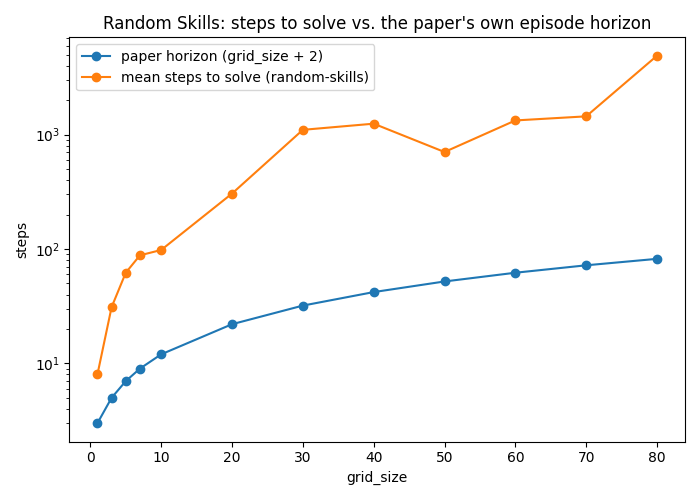
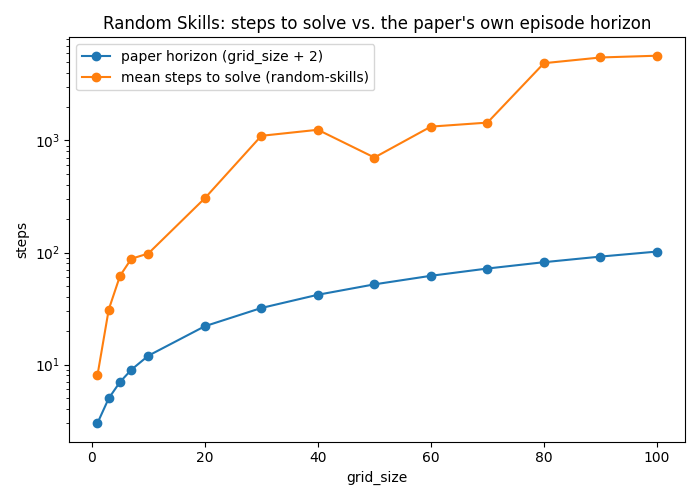
Fill in grid_size 90/100 in the Random Skills experiment log
The quadratic-cap sweep finished: 90 -> 5500 steps (2/3 solved), 100 ->
5703 steps (2/3 solved). 34/42 seeds (81%) solved within their
quadratic-scaled cap overall. Regenerated the steps-to-solve-vs-horizon
plot with the complete dataset.

Claude-Session: https://claude.ai/code/session_01BMDkogqZTdmAUeBXEeMLU5

diff --git a/docs/experiment-logs/2026-07-21-random-skills-baseline.md b/docs/experiment-logs/2026-07-21-random-skills-baseline.md
@@ -62,12 +62,16 @@ proportionally more room rather than being unfairly cut off. 3 seeds each.
 | 60        | 62            | 7200   | 1329                 | 2/3      |
 | 70        | 72            | 9800   | 1443                 | 2/3      |
 | 80        | 82            | 12800  | 4890                 | 2/3      |
-| 90        | 92            | 16200  | *pending*            | -        |
-| 100       | 102           | 20000  | *pending*            | -        |
+| 90        | 92            | 16200  | 5500                 | 2/3      |
+| 100       | 102           | 20000  | 5703                 | 2/3      |
 
-*(90/100 were still running as of this writeup — grounding cost is O(grid_size²)
-per step on top of an O(grid_size²) step cap, so the largest sizes are slow. Will
-update this table once they land.)*
+Overall, **34/42 seeds (81%) solved within their quadratic-scaled cap** across all
+14 grid sizes — the rest are genuine long-tail outliers (see the compounding
+argument below), not a sign the cap itself is systematically too small. Note the
+apparent "flattening" of the orange line above `grid_size=60` in the plot below is
+itself partly a cap artifact (the same survivorship-bias effect discussed for
+`grid_size=50`, just less severe) — it is not evidence the true scaling is
+sub-quadratic.
 
 ![steps to solve vs paper horizon](./2026-07-21-random-skills-steps-to-solve-vs-horizon.png)
 